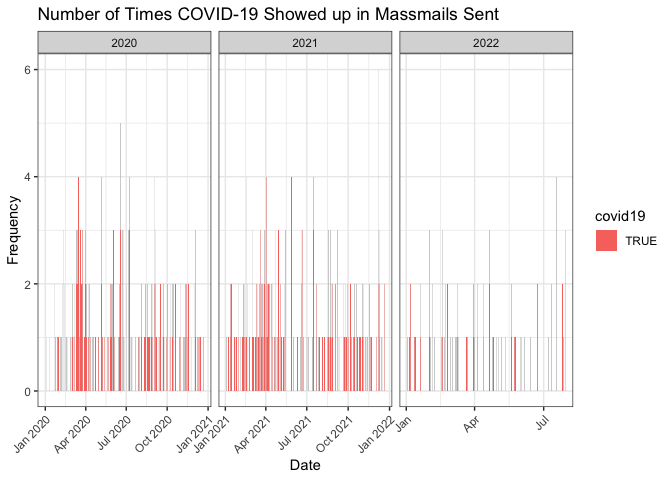
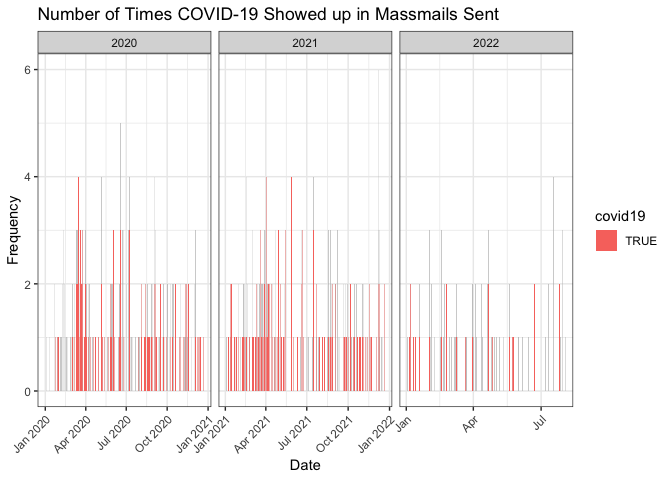
Re-build README.Rmd and Graphs

Changed region(s): [[0.5938, 0.4688, 0.8438, 0.8125], [0.7812, 0.8438, 0.8125, 0.9062], [0.6875, 0.8438, 0.7188, 0.9062]]

diff --git a/README.md b/README.md
@@ -17,7 +17,7 @@ The archive may be viewed here:
 
 <https://massmail.illinois.edu/massmailArchive>
 
-Data has **830** observations and **7** variables:
+Data has **831** observations and **7** variables:
 
   - `datetime`: Date and time when the email was sent in the form of
     `YYYY-MM-DD HMS` with either CDT or CST.
@@ -210,15 +210,15 @@ head(most_popular_words, 10) %>%
 
 | word        | freq |
 | :---------- | ---: |
-| university  | 1553 |
-| students    | 1374 |
-| campus      | 1273 |
-| illinois    | 1013 |
+| university  | 1558 |
+| students    | 1376 |
+| campus      | 1274 |
+| illinois    | 1017 |
 | covid       |  994 |
-| faculty     |  816 |
-| community   |  785 |
+| faculty     |  817 |
+| community   |  789 |
 | health      |  744 |
-| staff       |  668 |
+| staff       |  669 |
 | information |  629 |
 
 #### Wordcloud
